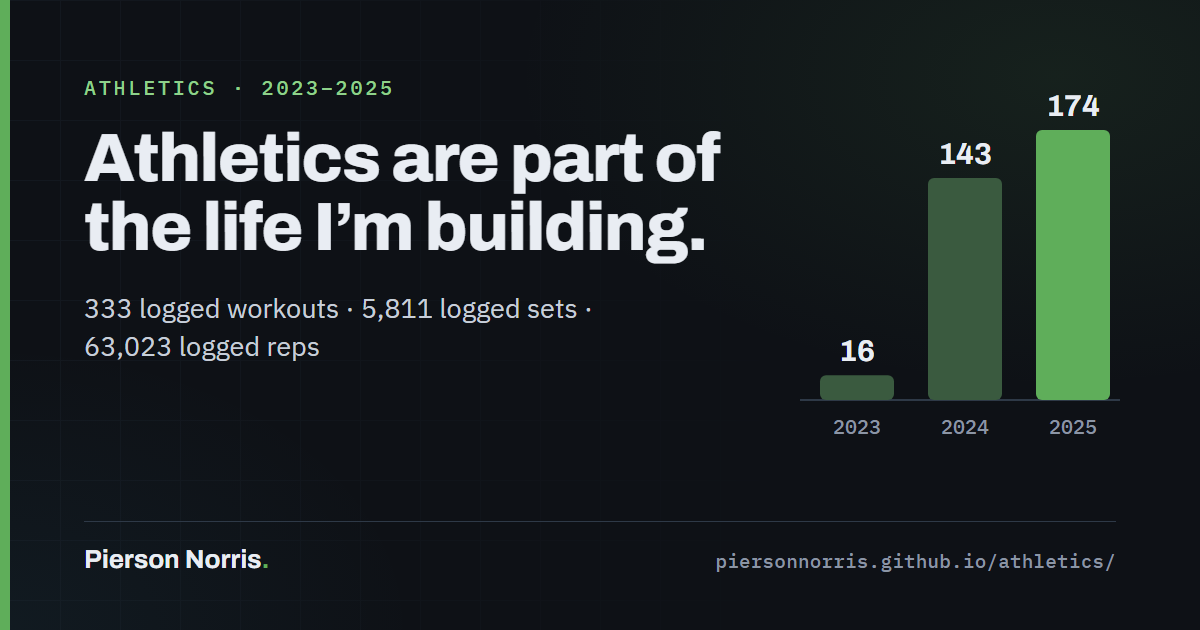
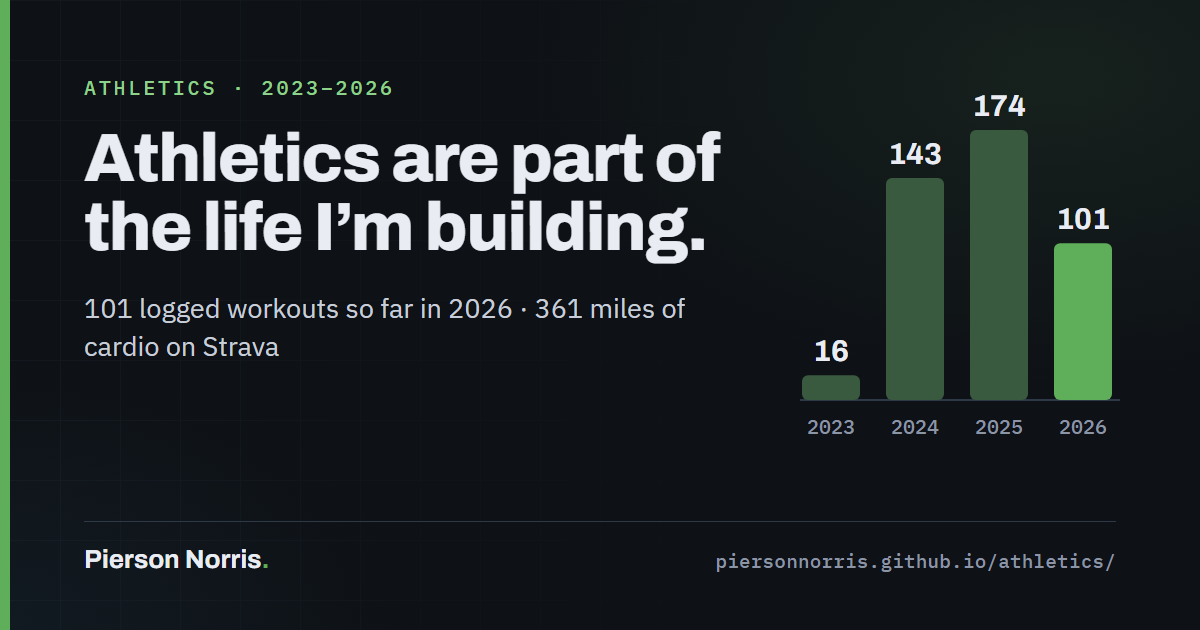
Oct 20 refresh: fall events, AI Hub title, Transfer Ready, athletics 2026, llms.txt and sitemap

diff --git a/athletics/index.html b/athletics/index.html
@@ -4,19 +4,19 @@
   <meta charset="utf-8">
   <meta name="viewport" content="width=device-width, initial-scale=1">
   <title>Athletics — Pierson Norris</title>
-  <meta name="description" content="A public snapshot of how athletics and training fit into Pierson Norris's life, with aggregate workout data from 2023–2025.">
+  <meta name="description" content="A public snapshot of how athletics and training fit into Pierson Norris's life, with aggregate workout data from 2023–2026.">
   <link rel="canonical" href="https://piersonnorris.github.io/athletics/">
   <link rel="icon" href="/assets/img/favicon.svg" type="image/svg+xml">
   <meta name="theme-color" content="#0e1116">
 
   <meta property="og:type" content="website">
   <meta property="og:title" content="Athletics — Pierson Norris">
-  <meta property="og:description" content="A public snapshot of how athletics and training fit into Pierson Norris's life, with aggregate workout data from 2023–2025.">
+  <meta property="og:description" content="A public snapshot of how athletics and training fit into Pierson Norris's life, with aggregate workout data from 2023–2026.">
   <meta property="og:url" content="https://piersonnorris.github.io/athletics/">
   <meta property="og:image" content="https://piersonnorris.github.io/assets/img/og/athletics.png">
   <meta property="og:image:width" content="1200">
   <meta property="og:image:height" content="630">
-  <meta property="og:image:alt" content="Athletics — logged workouts by year: 16 in 2023, 143 in 2024, 174 in 2025.">
+  <meta property="og:image:alt" content="Athletics — logged workouts by year: 16 in 2023, 143 in 2024, 174 in 2025, 101 so far in 2026.">
   <meta name="twitter:card" content="summary_large_image">
   <meta name="twitter:image" content="https://piersonnorris.github.io/assets/img/og/athletics.png">
 
@@ -53,12 +53,13 @@
     </div>
   </header>
   <main id="main" class="wrap athletics">
-    <div class="eyebrow">Personal practice · 2023–2025</div>
+    <div class="eyebrow">Personal practice · 2023–2026</div>
     <h1>Athletics are part of the life I’m building.</h1>
     <p class="lede">Training is one of the quieter systems underneath everything else: a place to practice consistency, measure progress, and keep showing up alongside school, work, and building.</p>
-    <div class="grid" aria-label="Three-year totals"><div class="stat"><b>333</b><span>logged workouts</span></div><div class="stat"><b>5,811</b><span>logged sets</span></div><div class="stat"><b>63,023</b><span>logged reps</span></div><div class="stat"><b>3.46M lb-reps</b><span>recorded lifting volume</span></div></div>
-    <section class="section"><h2>The record, year by year</h2><div class="table-wrap"><table><thead><tr><th>Year</th><th>Workouts</th><th>Sets</th><th>Reps</th><th>Volume</th><th>Exercises</th></tr></thead><tbody><tr><td>2023</td><td>16</td><td>265</td><td>2,353</td><td>143,420</td><td>45</td></tr><tr><td>2024</td><td>143</td><td>2,228</td><td>24,319</td><td>1,293,206</td><td>112</td></tr><tr><td>2025</td><td>174</td><td>3,318</td><td>36,351</td><td>2,019,892</td><td>150</td></tr></tbody></table></div></section>
-    <section class="section"><h2>What the numbers mean</h2><p>The record grows from a small 2023 baseline into a more consistent 2024 and 2025 practice. “Recorded lifting volume” is the sum of logged weight multiplied by logged reps. It describes the training log; it is not a claim about unique pounds moved or a complete measure of athletic ability.</p><p class="note">Running mileage is not shown because the underlying export does not contain a reliable distance log. Missing data stays missing.</p></section>
+    <div class="grid" aria-label="2023–2025 totals"><div class="stat"><b>333</b><span>logged workouts</span></div><div class="stat"><b>5,811</b><span>logged sets</span></div><div class="stat"><b>63,023</b><span>logged reps</span></div><div class="stat"><b>3.46M lb-reps</b><span>recorded lifting volume</span></div></div>
+    <section class="section"><h2>The record, year by year</h2><div class="table-wrap"><table><thead><tr><th>Year</th><th>Workouts</th><th>Sets</th><th>Reps</th><th>Volume</th><th>Exercises</th></tr></thead><tbody><tr><td>2023</td><td>16</td><td>265</td><td>2,353</td><td>143,420</td><td>45</td></tr><tr><td>2024</td><td>143</td><td>2,228</td><td>24,319</td><td>1,293,206</td><td>112</td></tr><tr><td>2025</td><td>174</td><td>3,318</td><td>36,351</td><td>2,019,892</td><td>150</td></tr><tr><td>2026 (to Sep 24)</td><td>101</td><td>1,670</td><td>—</td><td>1,069,713</td><td>—</td></tr></tbody></table></div></section>
+    <section class="section"><h2>2026 so far</h2><div class="grid" aria-label="2026 year to date"><div class="stat"><b>101</b><span>logged workouts, through Sep 24</span></div><div class="stat"><b>1,670</b><span>working sets</span></div><div class="stat"><b>1.07M lb-reps</b><span>recorded lifting volume</span></div><div class="stat"><b>361 mi</b><span>cardio logged on Strava, through Sep 28</span></div></div></section>
+    <section class="section"><h2>What the numbers mean</h2><p>The record grows from a small 2023 baseline into a more consistent 2024 and 2025 practice. “Recorded lifting volume” is the sum of logged weight multiplied by logged reps. It describes the training log; it is not a claim about unique pounds moved or a complete measure of athletic ability.</p><p class="note">The 2023–2025 rows come from a full-year Hevy export. The 2026 row comes from a later sync that counts working sets, so its sets and volume are close to, but not strictly comparable with, earlier years; its reps and exercise counts are not broken out yet. The 361 miles are Strava’s total across running, cycling and walking. Mileage before 2026 is not shown because the Hevy export has no distance log. Missing data stays missing.</p></section>
     <a class="back" href="/">← Back to Pierson’s home</a>
     <footer class="sitefoot">
       <address>

diff --git a/index.html b/index.html
@@ -38,7 +38,7 @@
       {"@type": "Organization", "name": "True North Services LLC"},
       {"@type": "CollegeOrUniversity", "name": "Elon University"}
     ],
-    "description": "Founder of True North Services LLC, Finance student at Elon University (class of 2027), AI intern at Screencastify (Jun–Aug 2026), team lead at the Elon AI Hub, president of Elon's AI & ET Club.",
+    "description": "Founder of True North Services LLC, Finance student at Elon University (class of 2027), AI intern at Screencastify (Jun–Aug 2026), AI Hub Leader and Outreach Team Lead at the Elon AI Hub, president of Elon's AI & ET Club, and a member of the Transfer Ready student startup team.",
     "knowsLanguage": ["English", "Chinese (Mandarin)"],
     "knowsAbout": ["Small business operations", "Sales and local marketing", "Finance and markets", "AI workflow automation", "Web tools"],
     "sameAs": ["https://www.linkedin.com/in/pierson-norris-634954246", "https://github.com/piersonnorris"]
@@ -192,13 +192,13 @@
         <div class="bio" id="bio-short">
           <p>I’m a Finance major at <b>Elon University</b> (class of 2027) who builds businesses and the systems that run them.</p>
           <p>I founded <b>True North Services LLC</b>, a Chicago North Shore exterior-services company I started at 18 and grew into a documented, trained operation. I spent a summer as an <b>AI intern at Screencastify</b> mapping seven workflows across six departments and shipping three live automation fixes, and I’m the president of Elon’s <b>AI &amp; ET Club</b>.</p>
-          <p>I’ve also been a <b>team lead at the Elon AI Hub</b> since it started in February 2025.</p>
+          <p>I’m also an <b>AI Hub Leader and Outreach Team Lead at the Elon AI Hub</b>, on the team since it started in February 2025. This fall the club hosted an applied-AI event with Duke FinTech, and I joined a student startup team, <b>Transfer Ready</b>, out of Techstars Startup Weekend.</p>
         </div>
         <div class="bio" id="bio-long" hidden>
           <p>I grew up on Chicago’s North Shore doing the jobs that teach you how work actually happens — a Taco Bell register, moving furniture for a design firm, a one-month internship shadowing a CEO. The summer before college I started a power-washing and window-washing business with a crew of high-school and college kids. First summer: 50+ clients and five figures in revenue, sold with flyers, Nextdoor posts, and knocking on doors.</p>
           <p>At Elon I study Finance with minors in Entrepreneurship and Mandarin Chinese. The business kept growing alongside the degree, and in 2026 it became <b>True North Services LLC</b> — a real company now, with an operations framework, a crew-training program I wrote myself, and a team that runs weekly ops calls without me in the room.</p>
           <p>The other thread is AI. In summer 2026 I was the AI intern at <b>Screencastify</b>, where I learned my favorite working method: don’t start with the tool, start with someone’s actual Tuesday. One written prompt got seven workflows mapped across six departments in 48 hours, and every single one had the same failure — a person acting as the API between systems that don’t talk. We shipped three fixes; one cut a 4–8 hour weekly finance task to under 15 minutes.</p>
-          <p>Now I run True North, trade and track my own portfolio (since 2020), serve as president of Elon’s AI &amp; ET Club, lead a team at the Elon AI Hub (since it started in February 2025), and build my own tools.</p>
+          <p>Now I run True North, trade and track my own portfolio (since 2020), serve as president of Elon’s AI &amp; ET Club, am an AI Hub Leader and Outreach Team Lead at the Elon AI Hub (since it started in February 2025), work with a student team on Transfer Ready, and build my own tools.</p>
         </div>
       </div>
 
@@ -252,10 +252,22 @@
       <h2 id="events-h">Events</h2>
       <ul class="events">
         <li class="org">
-          <div class="head"><span class="what"><b>Elon AI Hub</b><small>Team lead</small></span><span class="when">Feb 2025 – Present</span></div>
+          <div class="head"><span class="what"><b>Elon AI Hub</b><small>AI Hub Leader | Outreach Team Lead</small></span><span class="when">Feb 2025 – Present</span></div>
         </li>
         <li class="org">
           <div class="head"><span class="what"><b>Elon AI &amp; Emerging Tech Club</b><small>President</small></span><span class="when">Aug 2025 – Present</span></div>
+          <ul class="sub">
+            <li><span class="what">Applied AI: From Campus to Workplace<small>With the Elon AI Hub and partner student organizations; Duke FinTech master's program overview and workshop</small></span><time datetime="2026-10-13">Oct 13, 2026</time></li>
+            <li><span class="what">Crypto &amp; Digital Assets Night</span><time datetime="2026-09-29">Sep 29, 2026</time></li>
+            <li><span class="what">Fall kickoff</span><time datetime="2026-09-08">Sep 8, 2026</time></li>
+          </ul>
+        </li>
+        <li class="org">
+          <div class="head"><span class="what"><b>Transfer Ready</b><small>Student startup team, from Techstars Startup Weekend AI</small></span><span class="when">Oct 2026 – Present</span></div>
+          <ul class="sub">
+            <li><span class="what">Techstars Startup Weekend AI, Winston-Salem<small>Idea: a better way to find, value, and hand over a business's intangible assets at sale</small></span><time datetime="2026-10-02">Oct 2–4, 2026</time></li>
+            <li><span class="what">Interview-first: testing a low-cost audit with real owners before building software</span><time datetime="2026-10-10">Oct 2026</time></li>
+          </ul>
         </li>
         <li class="org">
           <div class="head"><span class="what"><b>True North Services LLC</b><small>CEO</small></span><span class="when">Apr 2026 – Present</span></div>

diff --git a/tools/og/card.html b/tools/og/card.html
@@ -103,10 +103,10 @@
         art: 'sky'
       },
       athletics: {
-        eyebrow: 'Athletics · 2023–2025',
+        eyebrow: 'Athletics · 2023–2026',
         title: 'Athletics are part of the life I’m building.',
         /* No-break spaces keep each number with its label. */
-        sub: '333 logged workouts · 5,811 logged sets · 63,023 logged reps',
+        sub: '101 logged workouts so far in 2026 · 361 miles of cardio on Strava',
         path: 'athletics/',
         art: 'bars'
       }
@@ -195,8 +195,8 @@
 
       /* Logged workouts per year — the page's own table: 16, 143, 174. */
       bars: function () {
-        var data = [['2023', 16], ['2024', 143], ['2025', 174]];
-        var max = 174, base = 330, top = 60, w = 74, gap = 34, x0 = 30;
+        var data = [['2023', 16], ['2024', 143], ['2025', 174], ['2026', 101]];
+        var max = 174, base = 330, top = 60, w = 58, gap = 26, x0 = 12;
         el('line', { x1: 10, y1: base, x2: 330, y2: base, stroke: '#2e3947', 'stroke-width': 2 });
         data.forEach(function (d, i) {
           var h = Math.max(6, (d[1] / max) * (base - top));

diff --git a/docs/CONTENT.md b/docs/CONTENT.md
@@ -37,9 +37,14 @@ Rules: use this copy verbatim (light grammatical smoothing allowed, meaning-chan
 
 Rendered newest-first at `/experience/`. The timeline **starts at 2026** (the top) and runs back to 2023. Per Pierson, 2026-09-05: **no 2027 entries** — that year hasn't happened, so it is not on the page.
 
-**2026** *(nine entries, newest first)*
+**2026** *(newest first)*
 
-- **President, Elon AI & Emerging Tech Club** — Aug 2025 → present; a member since 2024 (confirmed by Pierson 2026-09-21). `[OPEN: one line of agenda]`
+- **Techstars Startup Weekend AI → Transfer Ready** — Oct 2 – 4, 2026 (Winston-Salem), continuing weekly. Team idea at "AI: Ideas in Action": a better flow for finding, valuing and handing over a company's intangible assets (customer lists, reviews, content, domains, processes) when a business is sold. After the weekend the team of seven kept going as **Transfer Ready**, taking an interview-first approach: talk to real owners and test a low-cost audit before building software. Added 2026-10-20 from the vault; Pierson confirmed listing it publicly (2026-10-20), without teammate names. `[OPEN: Pierson — your role in one line, and any pitch result or placement you want shown.]`
+- **Hosted "Applied AI: From Campus to Workplace"** — Oct 13, 2026 (LaRose Theater, Love School of Business). Flagship event as president of the AI & ET Club, run with the Elon AI Hub and partner student organizations: partner tables, a Duke FinTech master's program overview and workshop, a guest segment, and networking; free to attend. `[OPEN: Pierson — attendance vs the 125 target and feedback score. Leave blank and no numbers are published.]`
+- **Hosted the Crypto & Digital Assets Night** — Sep 29, 2026 (Steers Pavilion), with the club's faculty advisor. Fall kickoff was Sep 8; next on the slate is robotics / emerging tech (Nov 3, `[OPEN: not yet confirmed]`).
+- `[OPEN: Pi Sigma Epsilon — executive-board member, ran rush interviews in September. Include on the public site? Pierson has not answered yet; do not publish until he does.]`
+
+- **President, Elon AI & Emerging Tech Club** — Aug 2025 → present; a member since 2024 (confirmed by Pierson 2026-09-21). Fall 2026 programming: Sep 8 kickoff, Sep 29 Crypto & Digital Assets Night, Oct 13 Applied AI with Duke FinTech (entries above).
 - **AI Intern, Screencastify** — Jun 9 – Aug 7, 2026 (nine weeks). One three-round workflow-mapping prompt dropped in a shared folder; department leaders mapped their own work (trigger, middle, hand-offs, friction, root cause) and returned **7 workflows across 6 departments in 48 hours**, with **one meeting added**. All seven shared one failure: *a person acting as the API between systems that don't talk.* Three fixes shipped — Finance weekly AR collections (**4–8 hrs/week → under 15 minutes**), Product-marketing Monday update email (**~30 min/week plus the rework loop, gone**), Engineering sprint-review recording (a hard-cutoff policy and one saved filter — **no tool build at all**). Combined build time: one afternoon. Separately, a **76-post** distribution audit reframed marketing as **under-concentrated, not under-worked**, and proposed the *Content Waterfall* — one ungated anchor asset repurposed into eight placements, with a single named distribution owner. *Takeaway: the method is the résumé line — find the problem in someone's actual Tuesday, get sign-off, build it with them, ship it.*
 - **Built Castify OS — three internal AI modules, live** — Jun 15 – Jul 31, 2026. Idea (Jun 15) → first agent skill (Jun 18) → build spec (Jun 29) → shipped (Jul 7) → first live client (Jul 9) → third module in beta (Jul 31). **Proposal Generator** (sales, live): deal context in, client-ready branded PDF + editable .docx out, **30 min → 5 min per proposal**. **Outbound Email Agent** (marketing, live): reads pending contacts from a sheet, researches, drafts into Gmail — *approval-gated by design, it never auto-sends*. **Traffic & AI Referral Analytics** (marketing, beta): two brands and two sites in one view, with AI-assistant referrals broken out as their own channel class. *Takeaway: AI doesn't replace the workflow. It removes the part of the workflow nobody wanted to do.*
 - **Ran True North's first company all-hands** — Jul 17, 2026, co-presented with the operations lead. Nine parts: the quote process end to end (respond as True North and capture name + address → price face to face with your reasoning → log it in the quote form → send a formal quote → book it and brief the crew), a live site walkthrough, a LinkedIn team-spotlight program, a written marketing do's-and-don'ts (before *and* after on every post, same angle, natural light, teammates credited, never a client's address), and a referral incentive of a **$10 minimum** per client — paid only once the client is landed *and* the job is completed.
@@ -50,7 +55,7 @@ Rendered newest-first at `/experience/`. The timeline **starts at 2026** (the to
 - **Asset tracking system** — 2026, ongoing. Five-platform portfolio tracker in Google Sheets, monthly-tab automation, feeding a private dashboard (on this site until 2026-09-15, when it moved to its own private repo; the site no longer links to it).
 
 **2025**
-- **Team lead, Elon AI Hub** — Feb 2025 → now. On the team since the hub started. (Confirmed by Pierson 2026-09-21.)
+- **AI Hub Leader | Outreach Team Lead, Elon AI Hub** — Feb 2025 → now. On the team since the hub started; outreach team lead since September 2026. (Start confirmed by Pierson 2026-09-21; title confirmed 2026-10-20.)
 - **Chief Marketing Officer (part-owner), Student Maintenance LLC** — Dec 2024 – Jul 2025. Ran marketing and the student crew: on-site quoting, closing leads, marketing content, sales-team leadership. Pierson 2026-09-21: title was **part-owner and Chief Marketing Officer, Dec 2024 – Jul 2025**. The equity paperwork was never signed, so don't describe a formal stake publicly. `[OPEN: include on the public site at all? If yes, use "CMO" wording.]`
 - `[OPEN: junior-year highlights]`
 
